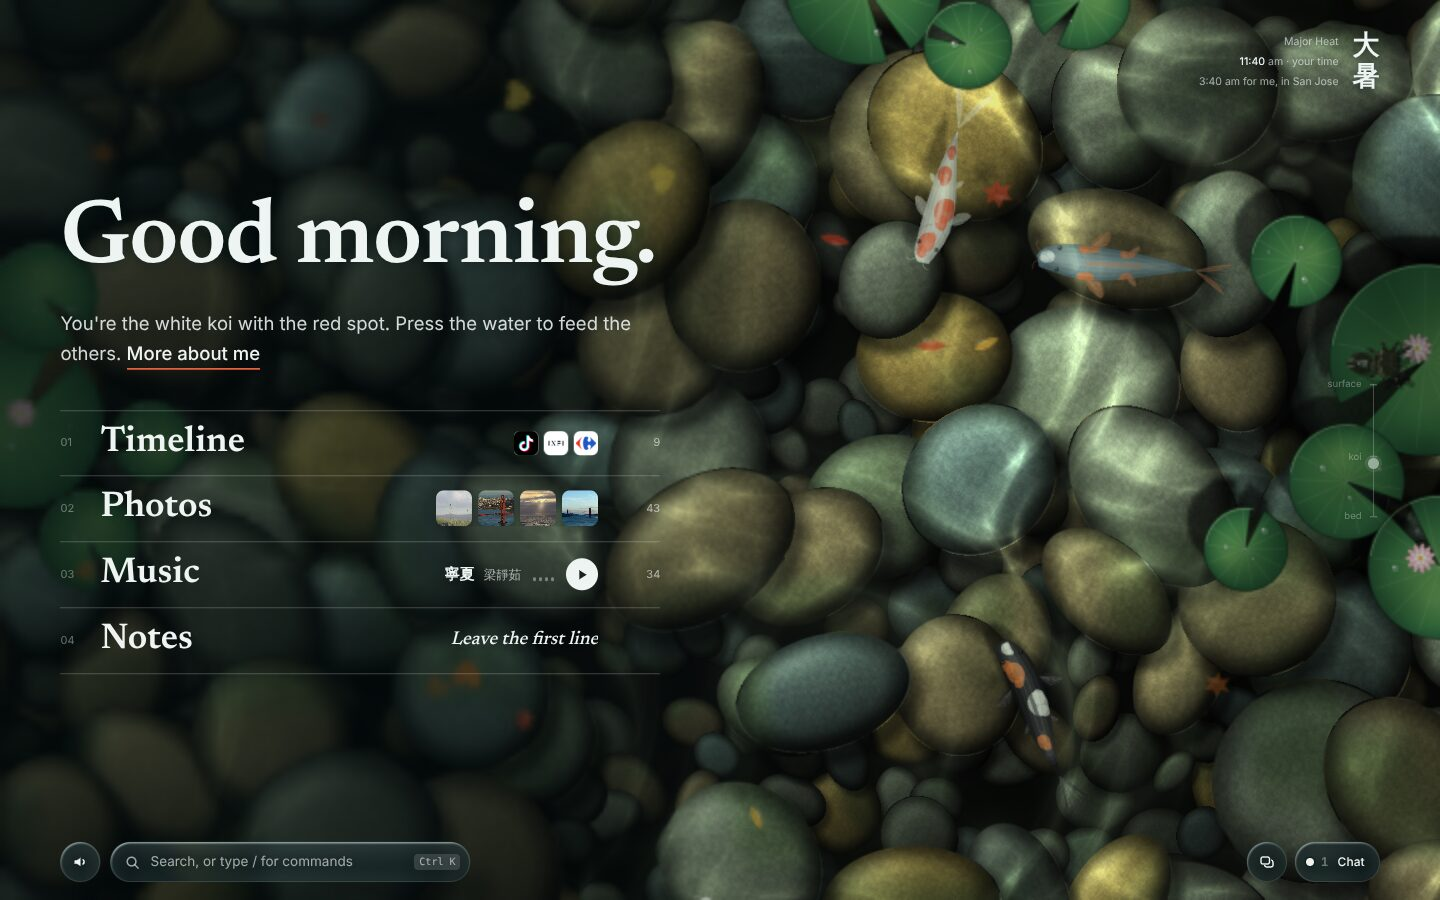
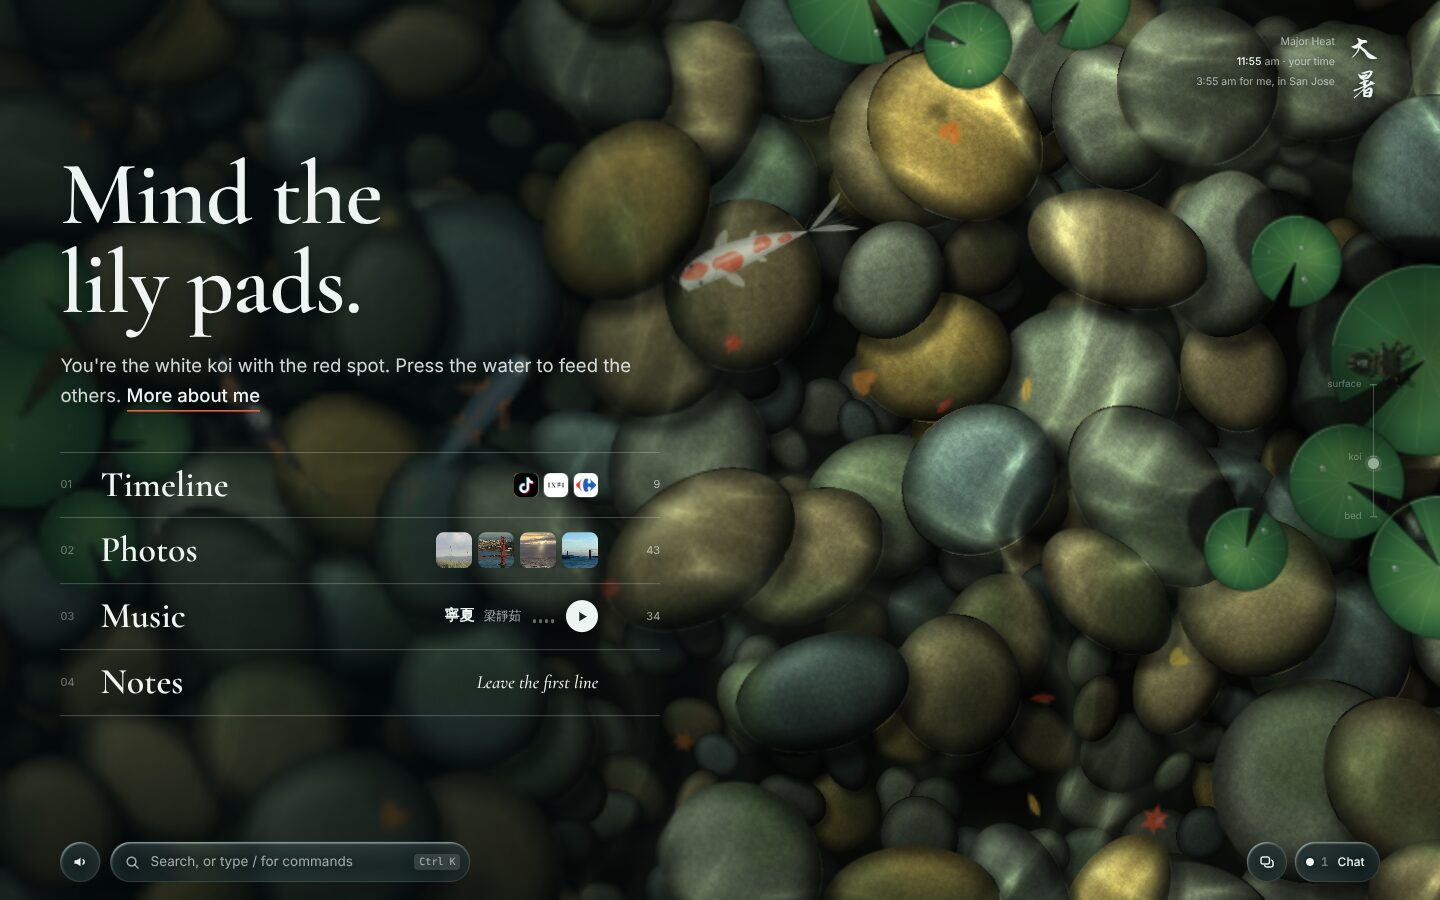
style(pond): set the solar term in a brush hand, the headings in Cormorant
Jincheng chose Zhi Mang Xing, a running-hand brush font, for the solar
term on the right, from five calligraphy faces tried on the pond, and
the prototype's Cormorant Garamond back for what is set large. Zhi Mang
Xing is cut to the 27 characters the terms use (9 KB); both fonts are
self-hosted under the SIL Open Font License, credited in NOTICE.
Newsreader goes. This pond's cover is recaptured with the new type.

Claude-Session: https://claude.ai/code/session_01NUmm5eFsW2Zf8J2V2pWQEe

diff --git a/src/pond/pond.css b/src/pond/pond.css
@@ -18,7 +18,7 @@
   --rule: rgba(23, 35, 31, 0.16);
   --koi: #e7603a;
   --gold: #e6b144;
-  --display: 'Newsreader Variable', 'Songti SC', 'Noto Serif CJK SC', 'Source Han Serif SC', Georgia, serif;
+  --display: 'Cormorant Garamond', 'Songti SC', 'Noto Serif CJK SC', 'Source Han Serif SC', Georgia, serif;
   --body: -apple-system, BlinkMacSystemFont, 'Segoe UI', 'PingFang SC', 'Hiragino Sans GB', 'Microsoft YaHei', system-ui, sans-serif;
   --mono: var(--body);
   --keys: ui-monospace, 'SF Mono', Menlo, Consolas, monospace;
@@ -1386,13 +1386,21 @@ button.more:hover {
   text-shadow: 0 1px 10px rgba(0, 16, 18, 0.7);
   pointer-events: none;
 }
-/* the term, read top to bottom: a character a line, so it stands the same in any font */
+/* The solar term is brushed: Zhi Mang Xing, a running hand, cut to the 27 characters the terms use
+   (src/pond/fonts; NOTICE). Read top to bottom, a character a line. */
+@font-face {
+  font-family: 'Pond Terms';
+  src: url('./fonts/zhi-mang-xing-terms.woff2') format('woff2');
+  font-display: swap;
+}
 .alm .term-v {
   display: flex;
   flex-direction: column;
   align-items: center;
-  gap: 0.12em;
-  font: 600 27px / 1 var(--cjk);
+  gap: 0.04em;
+  font:
+    400 34px / 1 'Pond Terms',
+    var(--cjk);
 }
 .alm .txt {
   display: flex;
@@ -2191,8 +2199,8 @@ button.more:hover {
   }
   .alm .term-v {
     flex-direction: row;
-    gap: 0.08em;
-    font-size: 16px;
+    gap: 0.04em;
+    font-size: 20px;
   }
   .alm .txt > :not(:nth-child(2)) {
     display: none;

diff --git a/docs/agents/pond.md b/docs/agents/pond.md
@@ -35,8 +35,10 @@ for; keep it true when the file changes.
 - **The title page reads because the pond is calmer under it.** On a
   wide window the left of the pond is deeper and out of focus (`uCalm`
   in the water's shader); on a phone, all of it. Type stays on that side.
-- **Type:** Newsreader (self-hosted, `@fontsource-variable/newsreader`)
-  for what's set large, the system's sans for everything else, figures
+- **Type:** Cormorant Garamond (self-hosted, `@fontsource/cormorant-garamond`)
+  for what's set large, the solar term brushed in Zhi Mang Xing (cut to
+  the terms' 27 characters, `src/pond/fonts/`; a new character needs the
+  font cut again), the system's sans for everything else, figures
   in tabular numerals. No monospace labels and no tracked capitals; only
   keys (`kbd`) are set in a monospace.
 - **Sound:** one switch (bottom left, M) for the water, the fish and the

diff --git a/docs/decisions/0025-the-pond.md b/docs/decisions/0025-the-pond.md
@@ -37,7 +37,8 @@ never did), and a chart-like timeline beside the one in soundings.
   Typing 4,500 lines of tuned drawing code would have been a rewrite
   with nothing to check it against; typing it section by section, with
   the prototype's behaviour to compare, is left for later.
-- Type: a serif (Newsreader, self-hosted) for what is set large, the
+- Type: a serif (Cormorant Garamond, self-hosted) for what is set large,
+  the solar term in a brush hand (Zhi Mang Xing, cut to its characters), the
   system's sans for the rest, no monospace labels or tracked capitals:
   Jincheng found those read as machine-made.
 - three.js (about 126 KB gzipped, with the models) loads only once the

diff --git a/README.md b/README.md
@@ -55,7 +55,8 @@ page at `/projects/<slug>/`.
   what they read from other services is checked with valibot.
 - The pond (`src/pond/`): WebGL2 for the water and the glass, three.js
   for the dove and the spider (loaded once the pond has settled), and
-  Newsreader, self-hosted, for its display type.
+  Cormorant Garamond and Zhi Mang Xing (a brush hand, for the solar
+  terms), self-hosted.
 - Vitest, Playwright for preview images, and GitHub Actions.
 
 ## Running it
